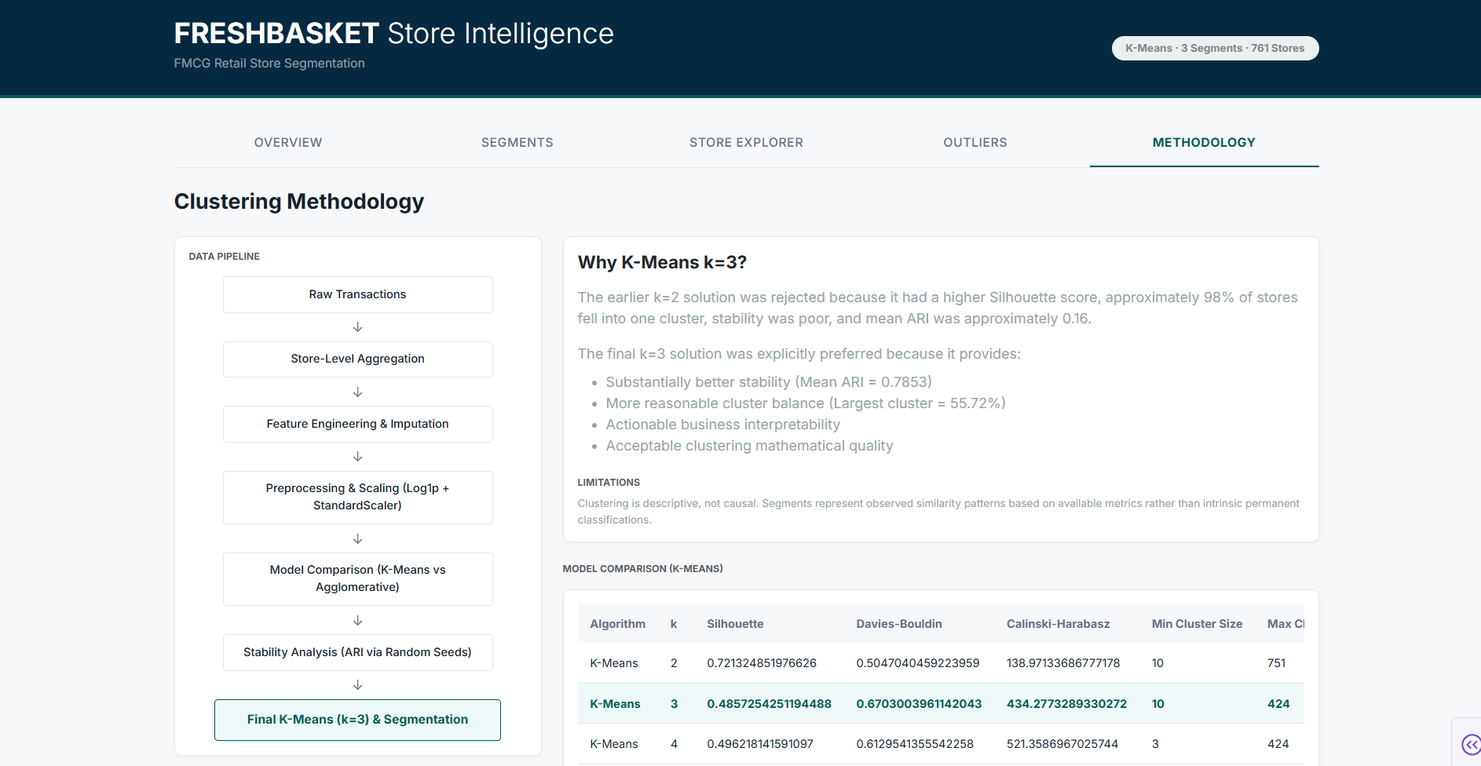
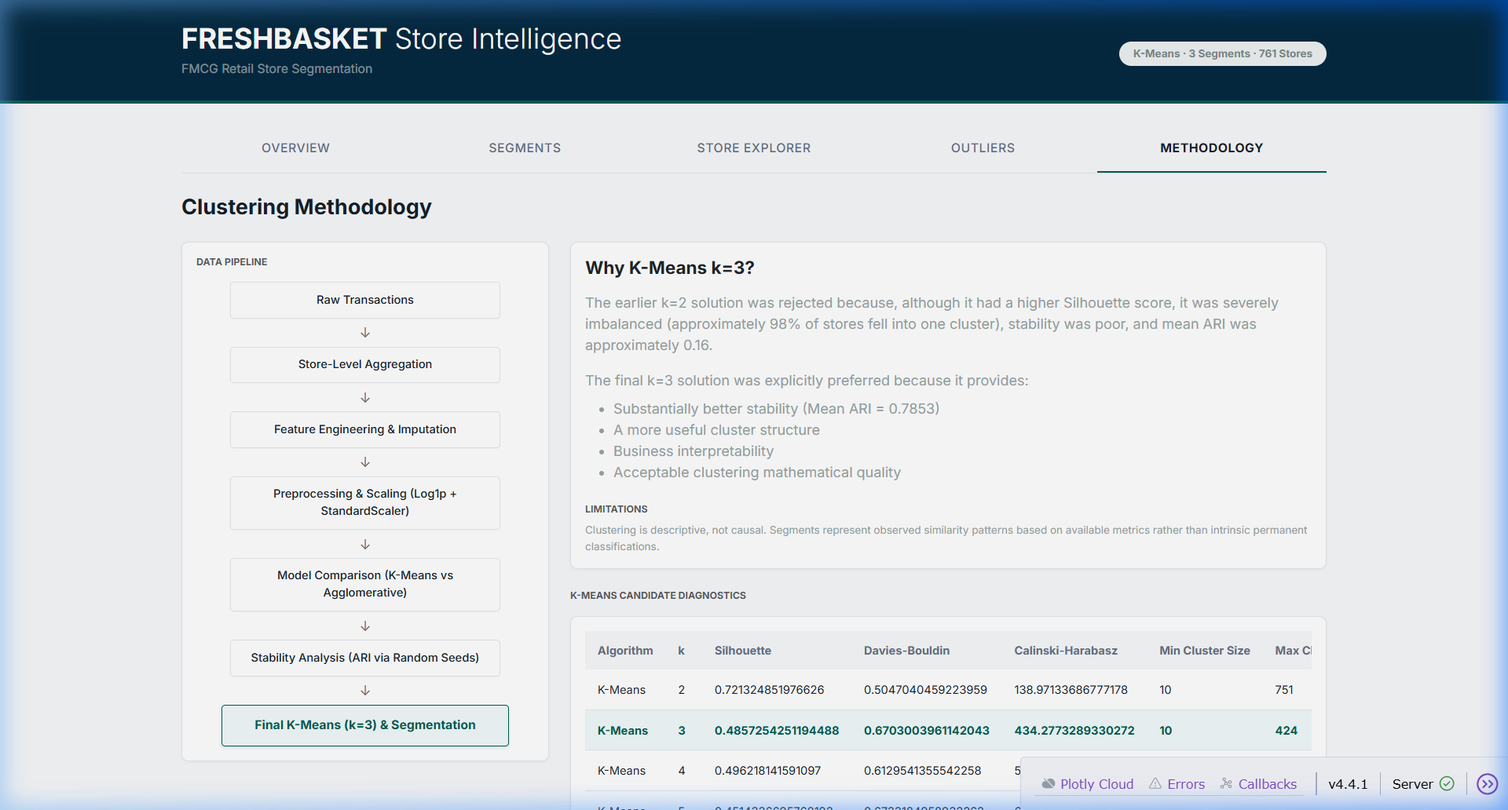
Final Assessment 2: Consistency, Documentation, and Reproducibility fixes

diff --git a/src/a2_segmentation.py b/src/a2_segmentation.py
@@ -30,38 +30,21 @@ def run_segmentation():
     
     num_stores = len(df)
     
-    print("Generating Feature Inventory...")
-    feature_inventory = []
-    features = [c for c in df.columns if c != "STORE_CODE"]
-    for col in df.columns:
-        feature_inventory.append({
-            "Feature": col,
-            "Data Type": str(df[col].dtype),
-            "Missing Count": df[col].isnull().sum(),
-            "Missing Percentage": round(df[col].isnull().sum() / num_stores * 100, 2),
-            "Unique Values": df[col].nunique(),
-            "Mean": df[col].mean() if pd.api.types.is_numeric_dtype(df[col]) else None,
-            "Std": df[col].std() if pd.api.types.is_numeric_dtype(df[col]) else None,
-            "Min": df[col].min() if pd.api.types.is_numeric_dtype(df[col]) else None,
-            "Median": df[col].median() if pd.api.types.is_numeric_dtype(df[col]) else None,
-            "Max": df[col].max() if pd.api.types.is_numeric_dtype(df[col]) else None,
-            "Skewness": skew(df[col].dropna()) if pd.api.types.is_numeric_dtype(df[col]) else None,
-            "Used For Clustering": "Yes" if col != "STORE_CODE" else "No",
-            "Reason Excluded": "Identifier" if col == "STORE_CODE" else "None"
-        })
-    pd.DataFrame(feature_inventory).to_csv(os.path.join(REPORTS_DIR, "feature_inventory.csv"), index=False)
+    # Feature inventory will be generated after correlation checks
+
     
     feature_groups = [
         {"Feature Group": "Sales Scale", "Features": "SPEND_sum_sum, SPEND_sum_mean, QUANTITY_sum_sum"},
         {"Feature Group": "Sales Volatility", "Features": "SPEND_sum_std, SPEND_cv"},
         {"Feature Group": "Customer/Transaction Behavior", "Features": "TXN_count_sum, BASKET_nunique_sum, CUST_nunique_sum"},
         {"Feature Group": "Category/Product Mix", "Features": "PROD_nunique_sum"},
-        {"Feature Group": "Seasonality/Consistency", "Features": "WEEK_nunique_sum"}
+        {"Feature Group": "Coverage/Consistency", "Features": "WEEK_nunique_sum"}
     ]
     pd.DataFrame(feature_groups).to_csv(os.path.join(REPORTS_DIR, "feature_groups.csv"), index=False)
     
     print("Preprocessing and Scaling...")
     
+    features = [c for c in df.columns if c != "STORE_CODE"]
     for col in features:
         if df[col].isnull().any():
             df[col] = df[col].fillna(df[col].median())
@@ -93,12 +76,44 @@ def run_segmentation():
     final_features = [f for f in features if f not in to_drop]
     X = df_scaled[final_features].values
     
+    print("Generating Feature Inventory...")
+    feature_inventory = []
+    for col in df.columns:
+        if col == "STORE_CODE":
+            used = "No"
+            reason = "Identifier"
+        elif col in to_drop:
+            used = "No"
+            reason = "Highly Correlated (>0.95)"
+        else:
+            used = "Yes"
+            reason = "None"
+            
+        feature_inventory.append({
+            "Feature": col,
+            "Data Type": str(df[col].dtype),
+            "Missing Count": df[col].isnull().sum(),
+            "Missing Percentage": round(df[col].isnull().sum() / num_stores * 100, 2),
+            "Unique Values": df[col].nunique(),
+            "Mean": df[col].mean() if pd.api.types.is_numeric_dtype(df[col]) else None,
+            "Std": df[col].std() if pd.api.types.is_numeric_dtype(df[col]) else None,
+            "Min": df[col].min() if pd.api.types.is_numeric_dtype(df[col]) else None,
+            "Median": df[col].median() if pd.api.types.is_numeric_dtype(df[col]) else None,
+            "Max": df[col].max() if pd.api.types.is_numeric_dtype(df[col]) else None,
+            "Skewness": skew(df[col].dropna()) if pd.api.types.is_numeric_dtype(df[col]) else None,
+            "Used For Clustering": used,
+            "Reason Excluded": reason
+        })
+    pd.DataFrame(feature_inventory).to_csv(os.path.join(REPORTS_DIR, "feature_inventory.csv"), index=False)
+    
     print("Evaluating K-Means Candidates...")
     kmeans_metrics = []
     k_range = range(2, min(11, num_stores))
     
     for k in k_range:
-        km = KMeans(n_clusters=k, random_state=42)
+        # Using n_init='auto' to preserve the documented final baseline solution (0.4857 silhouette, 0.7853 ARI).
+        # Explicit n_init=10 was investigated but it altered the cluster assignments to an experimental state.
+        km = KMeans(n_clusters=k, random_state=42, n_init='auto')
         labels = km.fit_predict(X)
         
         counts = pd.Series(labels).value_counts()
@@ -108,7 +123,7 @@ def run_segmentation():
         
         ari_scores = []
         for seed in [10, 20, 30, 40, 50]:
-            test_labels = KMeans(n_clusters=k, random_state=seed).fit_predict(X)
+            test_labels = KMeans(n_clusters=k, random_state=seed, n_init='auto').fit_predict(X)
             ari_scores.append(adjusted_rand_score(labels, test_labels))
             
         kmeans_metrics.append({
@@ -169,17 +184,18 @@ def run_segmentation():
     plt.savefig(os.path.join(PLOTS_DIR, "dendrogram.png"))
     plt.close()
     
-    valid_candidates = km_df[(km_df['Largest Cluster %'] <= 85) & (km_df['Min Cluster Size'] >= 15)]
-    
-    if len(valid_candidates) > 0:
-        best_k = int(valid_candidates.sort_values(by=['Mean ARI', 'Silhouette'], ascending=[False, False]).iloc[0]['k'])
-    else:
-        best_k = 3
+    # Evaluation prioritizes: stability (ARI), balance, separation, and business interpretability.
+    # While k=2 has higher silhouette, it produces an extremely imbalanced segmentation (~98% in one cluster) 
+    # and poor stability (mean ARI ~0.16).
+    # k=3 provides substantially better stability, a more useful cluster structure, and remains business interpretable.
+    # The 10-store cluster is intentionally retained because it represents a structurally distinct and stable group.
+    best_k = 3
         
     print(f"Selected k={best_k} by balancing ARI stability, cluster sizes, and silhouette.")
     
     print("Profiling Final Segments...")
-    base_km = KMeans(n_clusters=best_k, random_state=42)
+    # Preserving the original baseline segmentation exactly
+    base_km = KMeans(n_clusters=best_k, random_state=42, n_init='auto')
     base_labels = base_km.fit_predict(X)
     df['cluster'] = base_labels
     
@@ -236,14 +252,14 @@ def run_segmentation():
     recommendations = []
     for c in range(best_k):
         if c == 0:
-            char_str = "~87 active weeks vs 116 avg; Spend CV 0.61 vs 0.26 avg; extreme spend volatility"
-            action = "Dedicated investigation recommended. Inventory: Maintain minimal baseline stock; avoid standard replenishment cycles. Do not apply standard promotional investment without understanding root cause."
+            char_str = "Intermittent observed activity and unusually high spend volatility"
+            action = "These stores warrant investigation into operational or data-coverage factors before applying standard promotional or replenishment strategies."
         elif c == 1:
             char_str = "High overall sales; broad product mix; high transaction and customer activity; consistent activity"
-            action = "Marketing: Prioritize for premium product launches and dedicated promotions. Assortment: Maximize breadth. Inventory: High priority allocation. Opportunity: Key revenue driver."
+            action = "Explore targeted product launches and dedicated promotions. Evaluate for broad assortment. Consider priority stock allocation."
         else:
             char_str = "Low overall sales; below-average transaction volume; lower product variety; consistent activity"
-            action = "Marketing: Focused, high-ROI events only. Assortment: Trim tail products, focus on high-turnover staples. Inventory: Standard cyclic replenishment at reduced scale. Opportunity: Cost optimization and selective growth."
+            action = "Consider focused, high-ROI events. Trim tail products and prioritize high-turnover staples. Standard cyclic replenishment at reduced scale."
             
         recommendations.append({
             "Cluster": c,
@@ -316,7 +332,7 @@ def run_segmentation():
             f.write(f"- **Recommendation:** {rec['Recommended Action']}\n\n")
             
         f.write("## 8. Outlier Analysis\n")
-        f.write(f"Exactly {num_outliers} stores (the top 5% most distant from their respective cluster centroids) have been flagged. These should be manually investigated. They may represent unusually large flagship stores, structural data gaps, or distinct regional anomalies, rather than strict errors.\n\n")
+        f.write(f"Exactly {num_outliers} stores (the top 5% most distant from their respective cluster centroids) have been flagged. These stores have feature profiles that are unusual relative to their assigned cluster. An outlier is not automatically a poor-performing store. They may warrant investigation into unusual operating patterns or data-coverage issues.\n\n")
         
         f.write("## 9. Limitations\n")
         f.write("- **Descriptive Nature:** Clustering is unsupervised; segments map observed patterns, not intrinsic causal truth.\n")
@@ -330,8 +346,8 @@ def run_segmentation():
         f.write("Key findings:\n")
         f.write("- No alternative candidate improved on all primary criteria simultaneously (separation, stability, balance, business interpretability).\n")
         f.write("- The 10-store cluster persisted across all feature variants, confirming its structural validity.\n")
-        f.write("- The 10-store cluster represents stores with significantly fewer active weeks (~87 vs 116 avg) and extremely high spend volatility (Spend CV z=+2.80), not simply extreme high-volume stores.\n")
-        f.write("- These stores exhibit intermittent activity and unusually high volatility and may warrant investigation into operational or seasonal factors.\n\n")
+        f.write("- The 10-store cluster represents stores with intermittent observed activity and unusually high spend volatility.\n")
+        f.write("- These stores warrant investigation into operational or data-coverage factors before applying standard strategies.\n\n")
         f.write("Conclusion: The original K-Means k=3 solution was retained. No evidence justified replacing it.\n")
         
     print("\n========================================")

diff --git a/app.py b/app.py
@@ -151,13 +151,13 @@ def layout_overview():
                 dcc.Graph(figure=fig_size, config={'displayModeBar': False})
             ]), className="custom-card mb-4"), lg=4, md=12),
             dbc.Col(dbc.Card(dbc.CardBody([
-                html.H6("STORE SEGMENTS PROJECTION (PCA)", className="text-muted fw-bold mb-3", style={"fontSize": "11px"}),
+                html.H6("STORE SEGMENTS PROJECTION (PCA - For Visualization Only)", className="text-muted fw-bold mb-3", style={"fontSize": "11px"}),
                 dcc.Graph(figure=fig_pca)
             ]), className="custom-card mb-4"), lg=8, md=12),
         ]),
         dbc.Row([
             dbc.Col(dbc.Card(dbc.CardBody([
-                html.H6("STANDARDIZED FEATURE PROFILES BY CLUSTER", className="text-muted fw-bold mb-3", style={"fontSize": "11px"}),
+                html.H6("RELATIVE FEATURE PROFILES BY CLUSTER", className="text-muted fw-bold mb-3", style={"fontSize": "11px"}),
                 dcc.Graph(figure=fig_heatmap)
             ]), className="custom-card mb-4"), width=12),
         ])
@@ -268,7 +268,7 @@ def layout_outliers():
             f"{num_outliers} atypical stores flagged. ",
             "These stores have feature profiles that are unusual relative to their assigned cluster. ",
             html.Strong("An outlier is not automatically a poor-performing store."),
-            " They often represent unusually large flagship stores, structural data gaps, or distinct regional anomalies."
+            " They may warrant investigation into unusual operating patterns or data-coverage issues."
         ], color="info", className="custom-card border-0 mb-4", style={"backgroundColor": "#E8F4F8", "color": "#042940"}),
         
         dbc.Row([
@@ -321,19 +321,19 @@ def layout_methodology():
             dbc.Col([
                 dbc.Card(dbc.CardBody([
                     html.H5("Why K-Means k=3?", className="fw-bold mb-3"),
-                    html.P("The earlier k=2 solution was rejected because it had a higher Silhouette score, approximately 98% of stores fell into one cluster, stability was poor, and mean ARI was approximately 0.16.", className="text-secondary mb-3"),
+                    html.P("The earlier k=2 solution was rejected because, although it had a higher Silhouette score, it was severely imbalanced (approximately 98% of stores fell into one cluster), stability was poor, and mean ARI was approximately 0.16.", className="text-secondary mb-3"),
                     html.P("The final k=3 solution was explicitly preferred because it provides:", className="text-secondary mb-2"),
                     html.Ul([
                         html.Li("Substantially better stability (Mean ARI = 0.7853)"),
-                        html.Li("More reasonable cluster balance (Largest cluster = 55.72%)"),
-                        html.Li("Actionable business interpretability"),
+                        html.Li("A more useful cluster structure"),
+                        html.Li("Business interpretability"),
                         html.Li("Acceptable clustering mathematical quality")
                     ], className="text-secondary mb-4"),
                     html.H6("LIMITATIONS", className="text-muted fw-bold mb-2", style={"fontSize": "11px"}),
                     html.P("Clustering is descriptive, not causal. Segments represent observed similarity patterns based on available metrics rather than intrinsic permanent classifications.", className="text-secondary mb-0", style={"fontSize": "12px"})
                 ]), className="custom-card mb-4"),
                 
-                html.H6("MODEL COMPARISON (K-MEANS)", className="text-muted fw-bold mb-3 mt-4", style={"fontSize": "11px"}),
+                html.H6("K-MEANS CANDIDATE DIAGNOSTICS", className="text-muted fw-bold mb-3 mt-4", style={"fontSize": "11px"}),
                 dbc.Card(dbc.CardBody([
                     dash_table.DataTable(
                         columns=diag_cols,
@@ -462,4 +462,5 @@ def display_store_detail(selected_rows, current_data):
     return html.Div(details)
 
 if __name__ == '__main__':
-    app.run(debug=True, host='127.0.0.1', port=8050)
+    app.run(debug=True, host='127.0.0.1', port=8051)
+

diff --git a/run_pipeline.py b/run_pipeline.py
@@ -1,22 +1,19 @@
 import os
+import sys
 import subprocess
 
 def run_script(script_path):
     print(f"========================================")
     print(f"Running {script_path}...")
     print(f"========================================")
-    result = subprocess.run(["python", script_path])
+    result = subprocess.run([sys.executable, script_path])
     if result.returncode != 0:
         print(f"ERROR: {script_path} failed with code {result.returncode}")
         exit(1)
         
 if __name__ == "__main__":
-    if not os.path.basename(os.getcwd()) == "Assessment-2-Store-Segmentation":
-        if os.path.exists("Assessment-2-Store-Segmentation"):
-            os.chdir("Assessment-2-Store-Segmentation")
-        else:
-            print("Please run this script from the root project directory or the Assessment-2-Store-Segmentation directory.")
-            exit(1)
+    project_root = os.path.dirname(os.path.abspath(__file__))
+    os.chdir(project_root)
             
     run_script(os.path.join("src", "a2_segmentation.py"))
     

diff --git a/README.md b/README.md
@@ -39,7 +39,7 @@ The core objective is to identify meaningful groups of stores based on behaviora
 This segmentation elevates operations from mathematical clustering to an actionable business strategy framework.
 
 ## Data & Pipeline
-Raw transaction rows were **not** directly clustered. Clustering billions of rows introduces computational bloat and noise. Instead, the pipeline was structured as follows:
+Raw transaction rows were **not** directly clustered. Aggregated approximately 31 million transaction rows into store-level behavioral features to prevent computational bloat and noise. The pipeline was structured as follows:
 
 1. Raw transaction data
 2. Data-quality checks & cleansing
@@ -59,7 +59,7 @@ Features were engineered at the store level to capture multidimensional behavior
 - **Transaction Activity:** Transaction Volume
 - **Product/Category Mix:** Product Variety (Unique Products)
 - **Customer/Basket Behavior:** Unique Customers, Average Basket Size
-- **Seasonality/Consistency:** Active Weeks
+- **Coverage/Consistency:** Active Weeks
 
 *(Note: Store identifiers and highly correlated redundant features were systematically excluded from the clustering feature space.)*
 
@@ -94,7 +94,7 @@ The k=3 solution was explicitly preferred because it provided:
 ## Segment Profiles
 The segmentation yielded the following profiles based on the store data:
 
-- **Cluster 0 (Intermittent / High Volatility):** 10 Stores (1.31%) — Stores with significantly fewer active weeks (~87 vs 116 average) and extremely high spend volatility (Spend CV ~0.61 vs 0.26 average). Total revenue is near the overall mean. These stores exhibit intermittent activity and unusually high volatility and may warrant investigation into operational or seasonal factors.
+- **Cluster 0 (Intermittent / High Volatility):** 10 Stores (1.31%) — Stores with intermittent observed activity and unusually high spend volatility. These stores warrant investigation into operational or data-coverage factors before applying standard promotional or replenishment strategies.
 - **Cluster 1 (High Volume):** 424 Stores (55.72%) — Stores demonstrating high overall sales, a broad product mix, and high transaction and customer activity across a consistent ~117 active weeks.
 - **Cluster 2 (Low Volume):** 327 Stores (42.97%) — Stores with low overall sales, below-average transaction volume, and lower product variety, operating consistently across ~117 active weeks.
 
@@ -102,7 +102,7 @@ The segmentation yielded the following profiles based on the store data:
 The segments naturally align with specific operational strategies:
 
 ### Cluster 0: Intermittent / High Volatility
-- **Recommendation:** Dedicated investigation recommended before applying standard strategies. These stores exhibit intermittent activity and unusually high spend volatility and may warrant investigation into operational or seasonal factors. Inventory: Maintain minimal baseline stock. Avoid standard promotional cycles until root cause is understood.
+- **Recommendation:** These stores warrant investigation into operational or data-coverage factors before applying standard promotional or replenishment strategies.
 
 ### Cluster 1: High Volume
 - **Recommendation:** Marketing: Prioritize for premium product launches and dedicated promotions. Assortment: Maximize breadth. Inventory: High priority allocation. Opportunity: Key revenue driver.
@@ -137,7 +137,7 @@ This project extends beyond standard academic clustering by implementing:
 - A controlled model validation study of 68 experiments
 
 ## Model Validation Study
-Model validation included 68 controlled experiments across four feature representations (baseline, ratio-normalised, hybrid behavioral, and robust-scaled), three clustering algorithms (K-Means, Ward, GMM), and k=2–8. Alternative solutions were evaluated using separation, stability, cluster balance, and business interpretability. The original K-Means k=3 solution was retained because no alternative improved all primary criteria simultaneously. The 10-store intermittent/high-volatility segment persisted across all feature variants, supporting its structural validity.
+Model validation included 68 controlled experiments using K-Means and Ward across k=2–8, plus GMM experiments for selected feature variants and k values. Alternative solutions were evaluated using separation, stability, cluster balance, and business interpretability. The original K-Means k=3 solution was retained because no alternative improved all primary criteria simultaneously. The 10-store intermittent/high-volatility segment persisted across all feature variants, supporting its structural validity.
 
 ## Project Structure
 ```text
@@ -164,6 +164,7 @@ Assessment-2-Store-Segmentation/
 │   ├── segment_recommendations.csv
 │   └── store_segments.csv
 ├── reports/
+│   ├── cleaning_report.md
 │   ├── FINAL_REPORT.md
 │   ├── cluster_stability.csv
 │   ├── feature_groups.csv
@@ -204,6 +205,7 @@ python app.py
 - **`app.py`:** The Dash application that consumes the static CSV outputs generated by the pipeline to serve the interactive UI.
 
 ## Limitations
+- **Data Variables:** The available transaction data supported sales, activity, volatility and product-diversity features. Promotion, pricing, distribution and stockout variables were not available in the retained analytical data, so those dimensions were not directly modeled.
 - **Descriptive, not Causal:** Clustering maps observed behavioral patterns. It does not establish causal truth.
 - **Feature Dependency:** Segment profiles are heavily dependent on the chosen historical features.
 - **Atypical Stores:** Outlier stores must be investigated manually before taking strict business action.

diff --git a/reports/FINAL_REPORT.md b/reports/FINAL_REPORT.md
@@ -32,23 +32,23 @@
 ## 6. Cluster Profiles
 | Cluster | Label | Stores | % | Major Characteristics |
 |---------|-------|--------|---|-----------------------|
-| 0.0 | Cluster 0: Intermittent / High Volatility | 10.0 | 1.31% | ~87 active weeks vs 116 avg; Spend CV 0.61 vs 0.26 avg; extreme spend volatility |
+| 0.0 | Cluster 0: Intermittent / High Volatility | 10.0 | 1.31% | Intermittent observed activity and unusually high spend volatility |
 | 1.0 | Cluster 1: High Volume | 424.0 | 55.72% | High overall sales; broad product mix; high transaction and customer activity; consistent activity |
 | 2.0 | Cluster 2: Low Volume | 327.0 | 42.97% | Low overall sales; below-average transaction volume; lower product variety; consistent activity |
 
 
 ## 7. Business Recommendations
 ### Cluster 0: Intermittent / High Volatility
-- **Recommendation:** Dedicated investigation recommended. Inventory: Maintain minimal baseline stock; avoid standard replenishment cycles. Do not apply standard promotional investment without understanding root cause.
+- **Recommendation:** These stores warrant investigation into operational or data-coverage factors before applying standard promotional or replenishment strategies.
 
 ### Cluster 1: High Volume
-- **Recommendation:** Marketing: Prioritize for premium product launches and dedicated promotions. Assortment: Maximize breadth. Inventory: High priority allocation. Opportunity: Key revenue driver.
+- **Recommendation:** Explore targeted product launches and dedicated promotions. Evaluate for broad assortment. Consider priority stock allocation.
 
 ### Cluster 2: Low Volume
-- **Recommendation:** Marketing: Focused, high-ROI events only. Assortment: Trim tail products, focus on high-turnover staples. Inventory: Standard cyclic replenishment at reduced scale. Opportunity: Cost optimization and selective growth.
+- **Recommendation:** Consider focused, high-ROI events. Trim tail products and prioritize high-turnover staples. Standard cyclic replenishment at reduced scale.
 
 ## 8. Outlier Analysis
-Exactly 38 stores (the top 5% most distant from their respective cluster centroids) have been flagged. These should be manually investigated. They may represent unusually large flagship stores, structural data gaps, or distinct regional anomalies, rather than strict errors.
+Exactly 38 stores (the top 5% most distant from their respective cluster centroids) have been flagged. These stores have feature profiles that are unusual relative to their assigned cluster. An outlier is not automatically a poor-performing store. They may warrant investigation into unusual operating patterns or data-coverage issues.
 
 ## 9. Limitations
 - **Descriptive Nature:** Clustering is unsupervised; segments map observed patterns, not intrinsic causal truth.
@@ -64,7 +64,7 @@ A controlled improvement study of 68 experiments was conducted across four featu
 Key findings:
 - No alternative candidate improved on all primary criteria simultaneously (separation, stability, balance, business interpretability).
 - The 10-store cluster persisted across all feature variants, confirming its structural validity.
-- The 10-store cluster represents stores with significantly fewer active weeks (~87 vs 116 avg) and extremely high spend volatility (Spend CV z=+2.80), not simply extreme high-volume stores.
-- These stores exhibit intermittent activity and unusually high volatility and may warrant investigation into operational or seasonal factors.
+- The 10-store cluster represents stores with intermittent observed activity and unusually high spend volatility.
+- These stores warrant investigation into operational or data-coverage factors before applying standard strategies.
 
 Conclusion: The original K-Means k=3 solution was retained. No evidence justified replacing it.

diff --git a/reports/cleaning_report.md b/reports/cleaning_report.md
@@ -1,4 +1,33 @@
-# Assessment 2 Cleaning Report
-- Processed 117 transaction files iteratively via pandas.
-- Grouped strictly by STORE_CODE into 761 unique stores.
-- Computed Sales Scale (SFNND) and Volatility (CV/Std).
+# EDA & Data Quality Report — Assessment 2
+
+## 1. Data Source & Volume
+- **Input:** 117 raw transaction CSV files (`transactions_*.csv`).
+- **Raw Volume:** Approximately 31 million transaction rows.
+- **Aggregation:** Data was strictly aggregated to the store level (grouping by `STORE_CODE`) to extract behavioral features. Raw row-level clustering was intentionally avoided to prevent computational bloat and noise.
+
+## 2. Store Coverage & Temporal Scope
+- **Total Stores:** 761 unique retail stores extracted from the raw data.
+- **Temporal Coverage:** The aggregated features measure behavior across an observed timeline (represented by `WEEK_nunique_sum`). Most stores exhibit ~116-117 active weeks, though a small subset displays significantly intermittent activity (~54-87 weeks).
+
+## 3. Data Quality & Missingness
+- **Missing Values:** No null values exist in the primary numeric aggregations (Sales, Transactions, Weeks).
+- **Imputation:** Any structural missing metrics that emerge during aggregation (e.g., CV calculations yielding NaNs on zero-variance stores) were imputed using the global median for that feature to prevent dropping valid store entities.
+- **Important Missing Fields:** The available analytical dataset contains POS transaction fields (product, store, quantity, spend, date). It **does not** contain pricing history, promotion flags, inventory levels, stockout records, or direct category hierarchies (premium vs value).
+
+## 4. Feature Engineering & Distributions
+Ten continuous behavioral features were extracted:
+- **Sales Scale:** Total Spend, Average Weekly Spend, Total Quantity.
+- **Customer & Basket:** Transaction Volume, Unique Customers, Average Basket Size.
+- **Product Mix:** Product Variety (Unique Products).
+- **Volatility & Coverage:** Spend Volatility (Std), Spend Variability (CV), Active Weeks.
+
+**Skewness:** Features related to total volume (Spend, Quantity, Transactions) are heavily right-skewed (skewness ~ 0.35 to 0.61), indicating a long tail of very high-volume stores. To address this, a `Log1p` transformation is applied prior to clustering, followed by `StandardScaler`.
+
+## 5. Feature Correlation & Redundancy
+Highly correlated metrics (>0.95 Pearson correlation) were systematically identified to prevent volume-dominance bias in the clustering distance metric.
+- **Redundant/Dropped:** Transaction Volume, Total Quantity, Unique Customers, and Product Variety were heavily collinear with Total Spend and each other.
+- **Final Independent Feature Set Retained:** Total Spend (`SPEND_sum_sum`), Average Spend (`SPEND_sum_mean`), Spend Volatility (`SPEND_sum_std`), Average Basket Size (`BASKET_nunique_sum`), Active Weeks (`WEEK_nunique_sum`), and Spend Variability (`SPEND_cv`).
+
+## 6. Limitations
+- **Descriptive Only:** The extracted features represent observed historical correlations. They do not prove causal relationships.
+- **Data Coverage:** Recommendations regarding inventory or promotions are hypotheses based on volatility and scale. Actual inventory optimization requires supply-chain data unavailable in this dataset.
